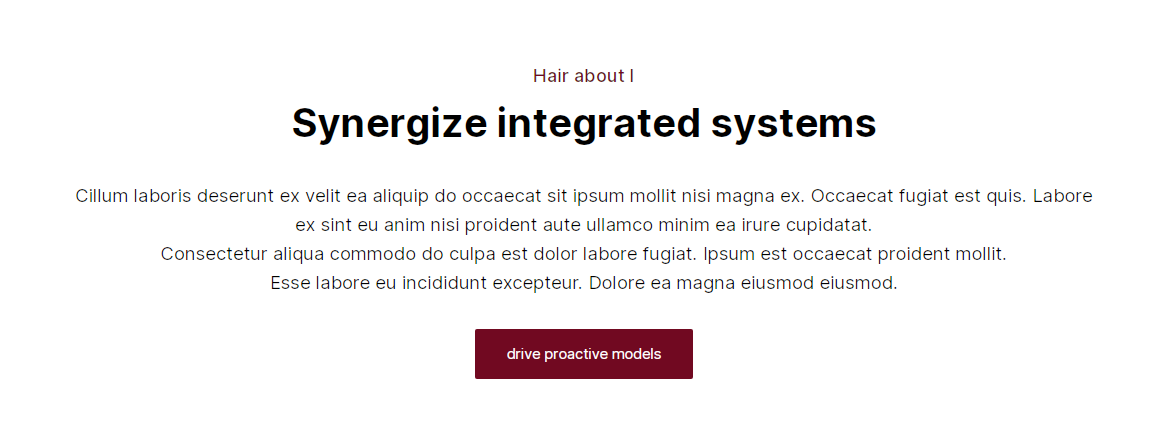
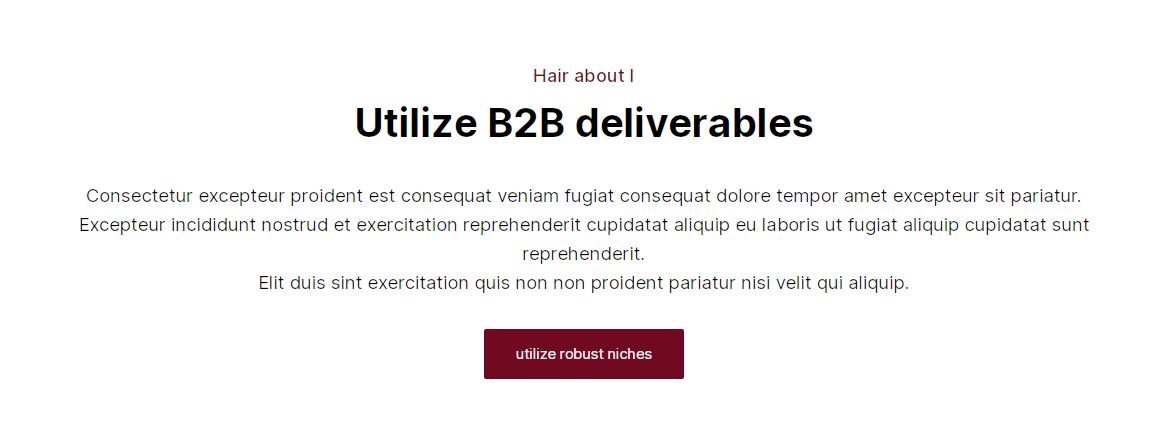
simple cta option too

diff --git a/blurb/CallToAction/index.js b/blurb/CallToAction/index.js
@@ -3,61 +3,19 @@
 import { jsx } from 'theme-ui';
 import React from 'react';
 import { array, shape } from 'prop-types';
-import { RichText } from 'prismic-reactjs';
-import { Flex, Box } from 'theme-ui'
-import { Button, Slice, Eyebrow, Container } from '../../components'
+import {  Slice, Container } from '../../components'
+import { DefaultSlice, SimpleSlice } from './Variants';
 
 const CallToAction = ({ slice, linkResolver }) => (
   <Slice style={{
     backgroundColor: slice?.primary?.backgroundColor
   }}>
     <Container>
-      <Flex sx={{
-        flex: '1',
-        flexDirection: ['column'],
-        alignItems: 'center',
-      }}>
-        {
-          slice.primary.eyebrow ? (<Eyebrow>{slice.primary.eyebrow}</Eyebrow>) : null
-        }
-        <Box
-          __themeKey="slice"
-          variant="cta"
-          __css={{
-            textAlign: 'center',
-          }}
-        >
-          <RichText
-            render={slice.primary.title}
-          />
-
-          <Box
-            sx={{
-              fontSize: 'kicker'
-            }}
-          >
-            <RichText render={slice.primary.description} />
-
-          </Box>
-        </Box>
-        {
-          slice.primary.link && slice.primary.label && (
-            <Box
-              as="div"
-              sx={{
-                marginTop: ['small', 'medium'],
-              }}
-            >
-              <Button
-                link={slice.primary.link}
-                label={slice.primary.label}
-                variant={slice.primary.buttonType}
-                resolver={linkResolver}
-              />
-            </Box>
-          )
-        }
-      </Flex>
+      {
+        slice.primary.simple === true
+          ? <SimpleSlice slice={ slice } linkResolver={ linkResolver } />
+          : <DefaultSlice slice={ slice } linkResolver={ linkResolver } />
+      }
     </Container>
   </Slice>
 );

diff --git a/blurb/CallToAction/Variants/Simple/index.js b/blurb/CallToAction/Variants/Simple/index.js
@@ -1,0 +1,77 @@
+/** @jsxRuntime classic */
+/** @jsx jsx */
+import { jsx } from 'theme-ui';
+import React from 'react';
+import { array, shape } from 'prop-types';
+import { RichText } from 'prismic-reactjs';
+import { Grid, Box } from 'theme-ui'
+import { Button, Eyebrow } from '../../../../components'
+
+
+const SimpleSlice = ({ slice, linkResolver }) => (
+  <Box
+    as="section"
+    sx={{
+      display: 'flex',
+      flexDirection: 'column'
+    }}
+    >
+      {
+        slice.primary.eyebrow ? (<Eyebrow mb={'small'}>{slice.primary.eyebrow}</Eyebrow>) : null
+      }
+    <Grid
+      gap={2}
+      columns={[null, '2fr 1fr']}
+      sx={{
+        alignItems: 'center'
+      }}
+    >
+      <Box
+        __themeKey="slice"
+        variant="cta"
+        __css={{
+          textAlign: 'center',
+          display: 'flex',
+          flexDirection: 'column',
+        }}
+      >
+        <RichText
+          render={slice.primary.title}
+        />
+
+        {
+          slice.primary.description
+            ? (
+              <Box
+                sx={{
+                  fontSize: 'base'
+                }}
+              >
+                <RichText render={slice.primary.description} />
+              </Box>
+            )
+            : null
+        }
+      </Box>
+      {
+        slice.primary.link && slice.primary.label && (
+          <Box
+            as="div"
+            sx={{
+              marginTop: ['small', 'medium'],
+            }}
+          >
+            <Button
+              link={slice.primary.link}
+              label={slice.primary.label}
+              variant={slice.primary.buttonType}
+              resolver={linkResolver}
+            />
+          </Box>
+        )
+      }
+    </Grid>
+  </Box>
+)
+
+export default SimpleSlice;

diff --git a/blurb/CallToAction/Variants/Default/index.js b/blurb/CallToAction/Variants/Default/index.js
@@ -1,0 +1,65 @@
+/** @jsxRuntime classic */
+/** @jsx jsx */
+import { jsx } from 'theme-ui';
+import React from 'react';
+import { array, shape } from 'prop-types';
+import { RichText } from 'prismic-reactjs';
+import { Flex, Box } from 'theme-ui'
+import { Button, Eyebrow } from '../../../../components'
+
+
+const DefaultSlice = ({ slice, linkResolver }) => (
+  <Flex sx={{
+    flex: '1',
+    flexDirection: 'column',
+    alignItems: 'center',
+  }}>
+    {
+      slice.primary.eyebrow ? (<Eyebrow>{slice.primary.eyebrow}</Eyebrow>) : null
+    }
+    <Box
+      __themeKey="slice"
+      variant="cta"
+      __css={{
+        textAlign: 'center',
+      }}
+    >
+      <RichText
+        render={slice.primary.title}
+      />
+
+      {
+        slice.primary.description
+          ? (
+            <Box
+              sx={{
+                fontSize: 'kicker'
+              }}
+            >
+              <RichText render={slice.primary.description} />
+            </Box>
+          )
+          : null
+      }
+    </Box>
+    {
+      slice.primary.link && slice.primary.label && (
+        <Box
+          as="div"
+          sx={{
+            marginTop: ['small', 'medium'],
+          }}
+        >
+          <Button
+            link={slice.primary.link}
+            label={slice.primary.label}
+            variant={slice.primary.buttonType}
+            resolver={linkResolver}
+          />
+        </Box>
+      )
+    }
+  </Flex>
+)
+
+export default DefaultSlice;

diff --git a/blurb/CallToAction/index.stories.js b/blurb/CallToAction/index.stories.js
@@ -3,6 +3,7 @@ import model from './model';
 import mocks from './mocks.json';
 import { storiesOf } from '@storybook/react';
 import { linkResolver } from '../../utils'
+import { cloneDeep } from 'lodash';
 
 mocks.forEach((variation) => {
   storiesOf(model.name, Component)
@@ -11,6 +12,7 @@ mocks.forEach((variation) => {
       (...args) => {
         const [controls] = args;
         variation.primary.backgroundColor = controls.backgroundColor;
+        variation.primary.simple = controls.simple;
 
         return <Component slice={variation} linkResolver={linkResolver} />
       },
@@ -21,8 +23,30 @@ mocks.forEach((variation) => {
             control: 'color',
             defaultValue: 'white'
           },
+          simple: {
+            control: 'boolean',
+            defaultValue: false,
+          }
+        }
+      }
+    ).add(
+      'Simple Variation',
+      (...args) => {
+        let simpleVariation = cloneDeep(mocks[0]);
+        const [controls] = args;
+        simpleVariation.primary.backgroundColor = controls.backgroundColor;
+        simpleVariation.primary.simple = true;
+
+        return <Component slice={simpleVariation} linkResolver={linkResolver} />
+      },
+      {
+        controls: { hideNoControlsWarning: true },
+        argTypes: {
+          backgroundColor: {
+            control: 'color',
+            defaultValue: 'white'
+          }
         }
       }
     );
 });
-

diff --git a/styles/forms.js b/styles/forms.js
@@ -29,6 +29,12 @@ export const forms = {
   },
 
   textarea: {
-
-  },
+    boxShadow: 'shadow',
+    border: '1px solid',
+    borderColor: 'rgba(0,0,0,0.2)',
+    px: 'xsmall',
+    py: 'xsmall',
+    placeholder: 'grey20',
+    fontFamily: 'body'
+  }
 }

diff --git a/blurb/CallToAction/Variants/index.js b/blurb/CallToAction/Variants/index.js
@@ -1,0 +1,2 @@
+export { default as DefaultSlice } from './Default';
+export { default as SimpleSlice } from './Simple';
